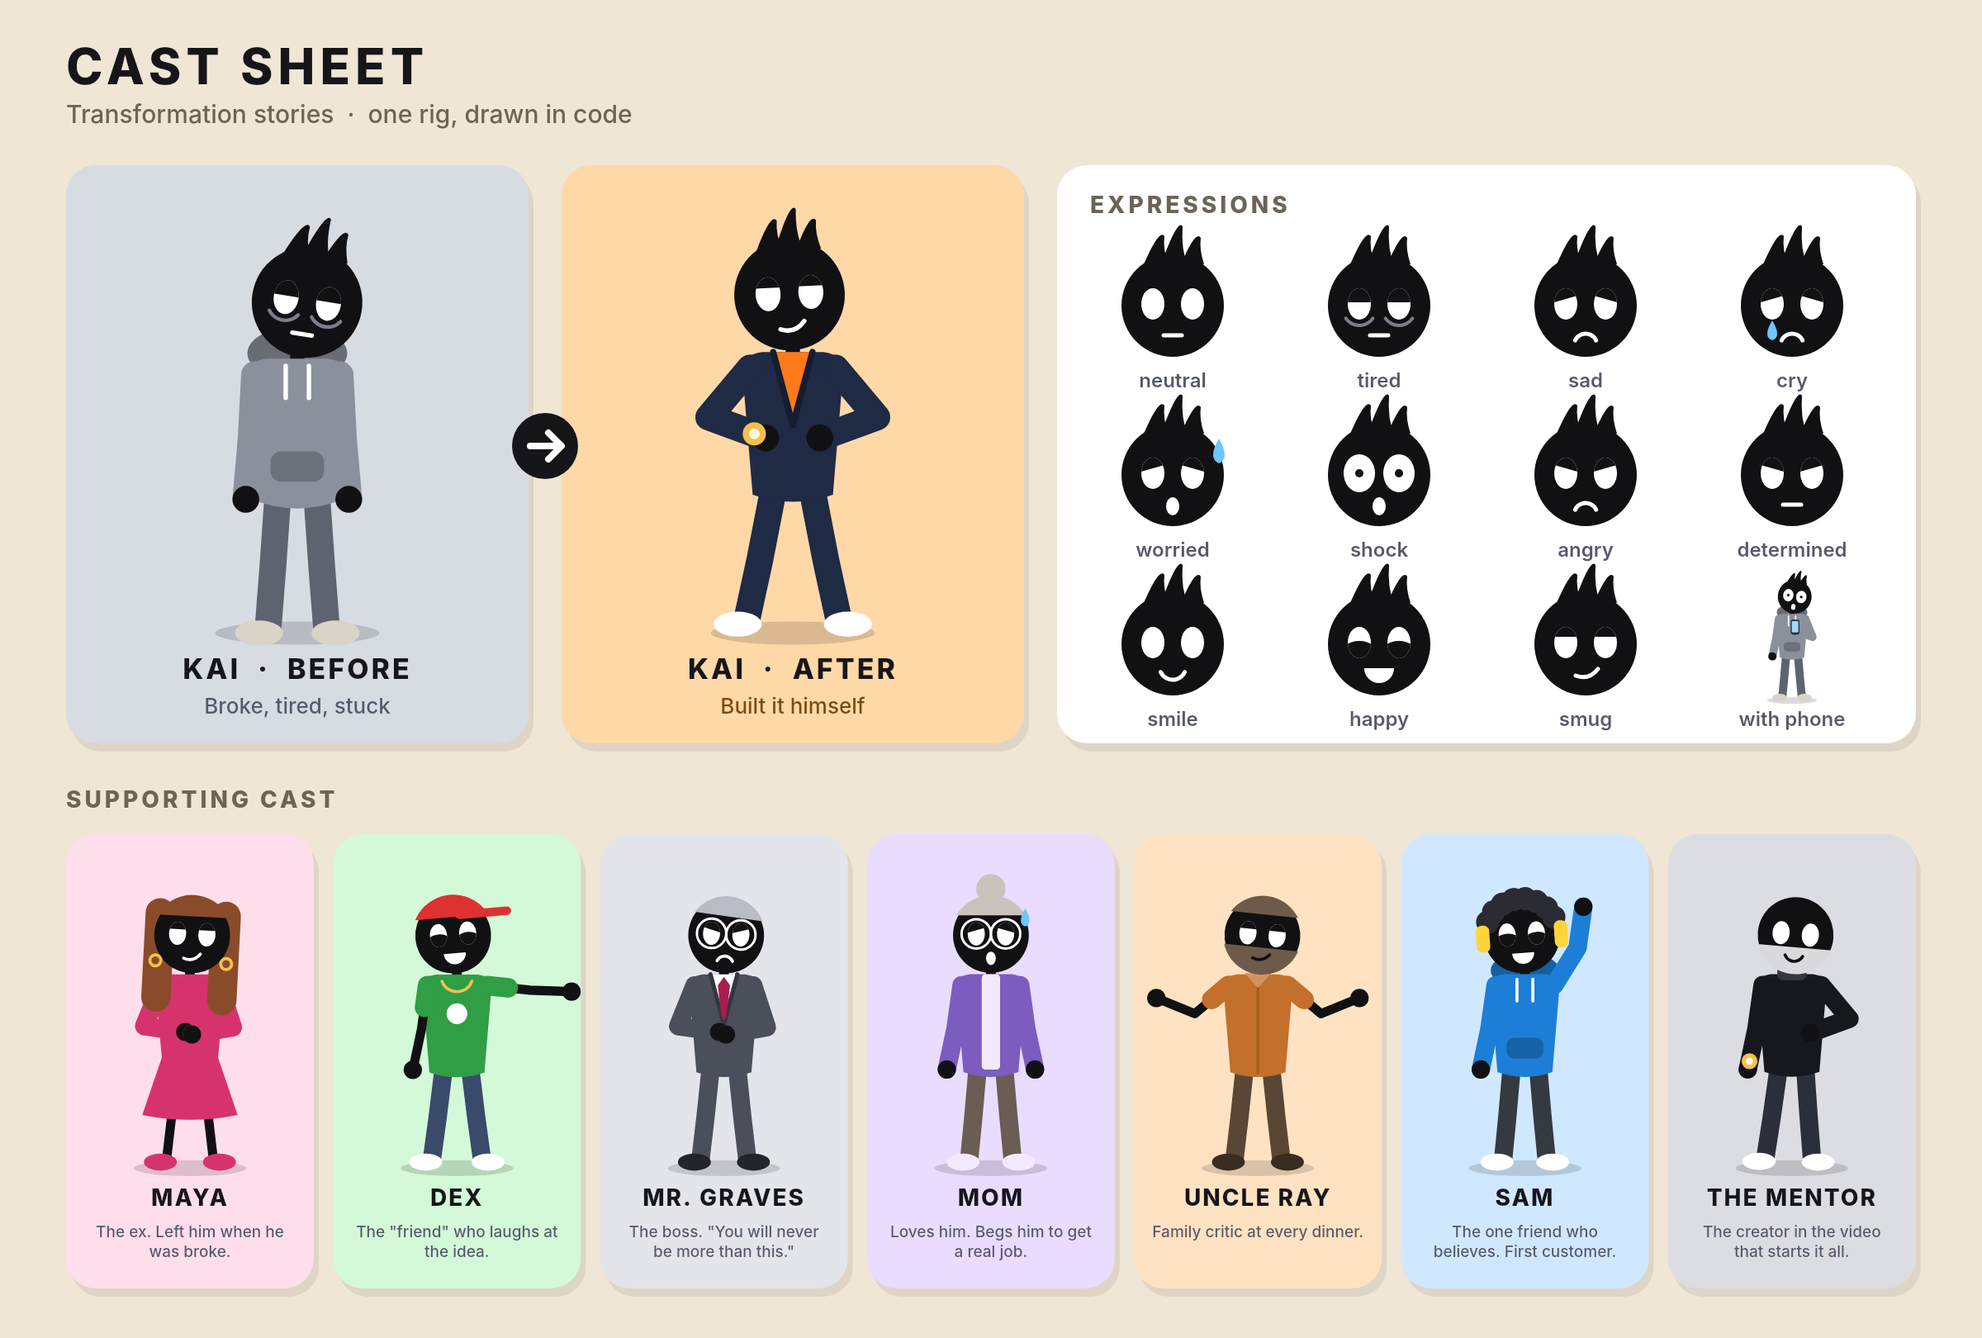
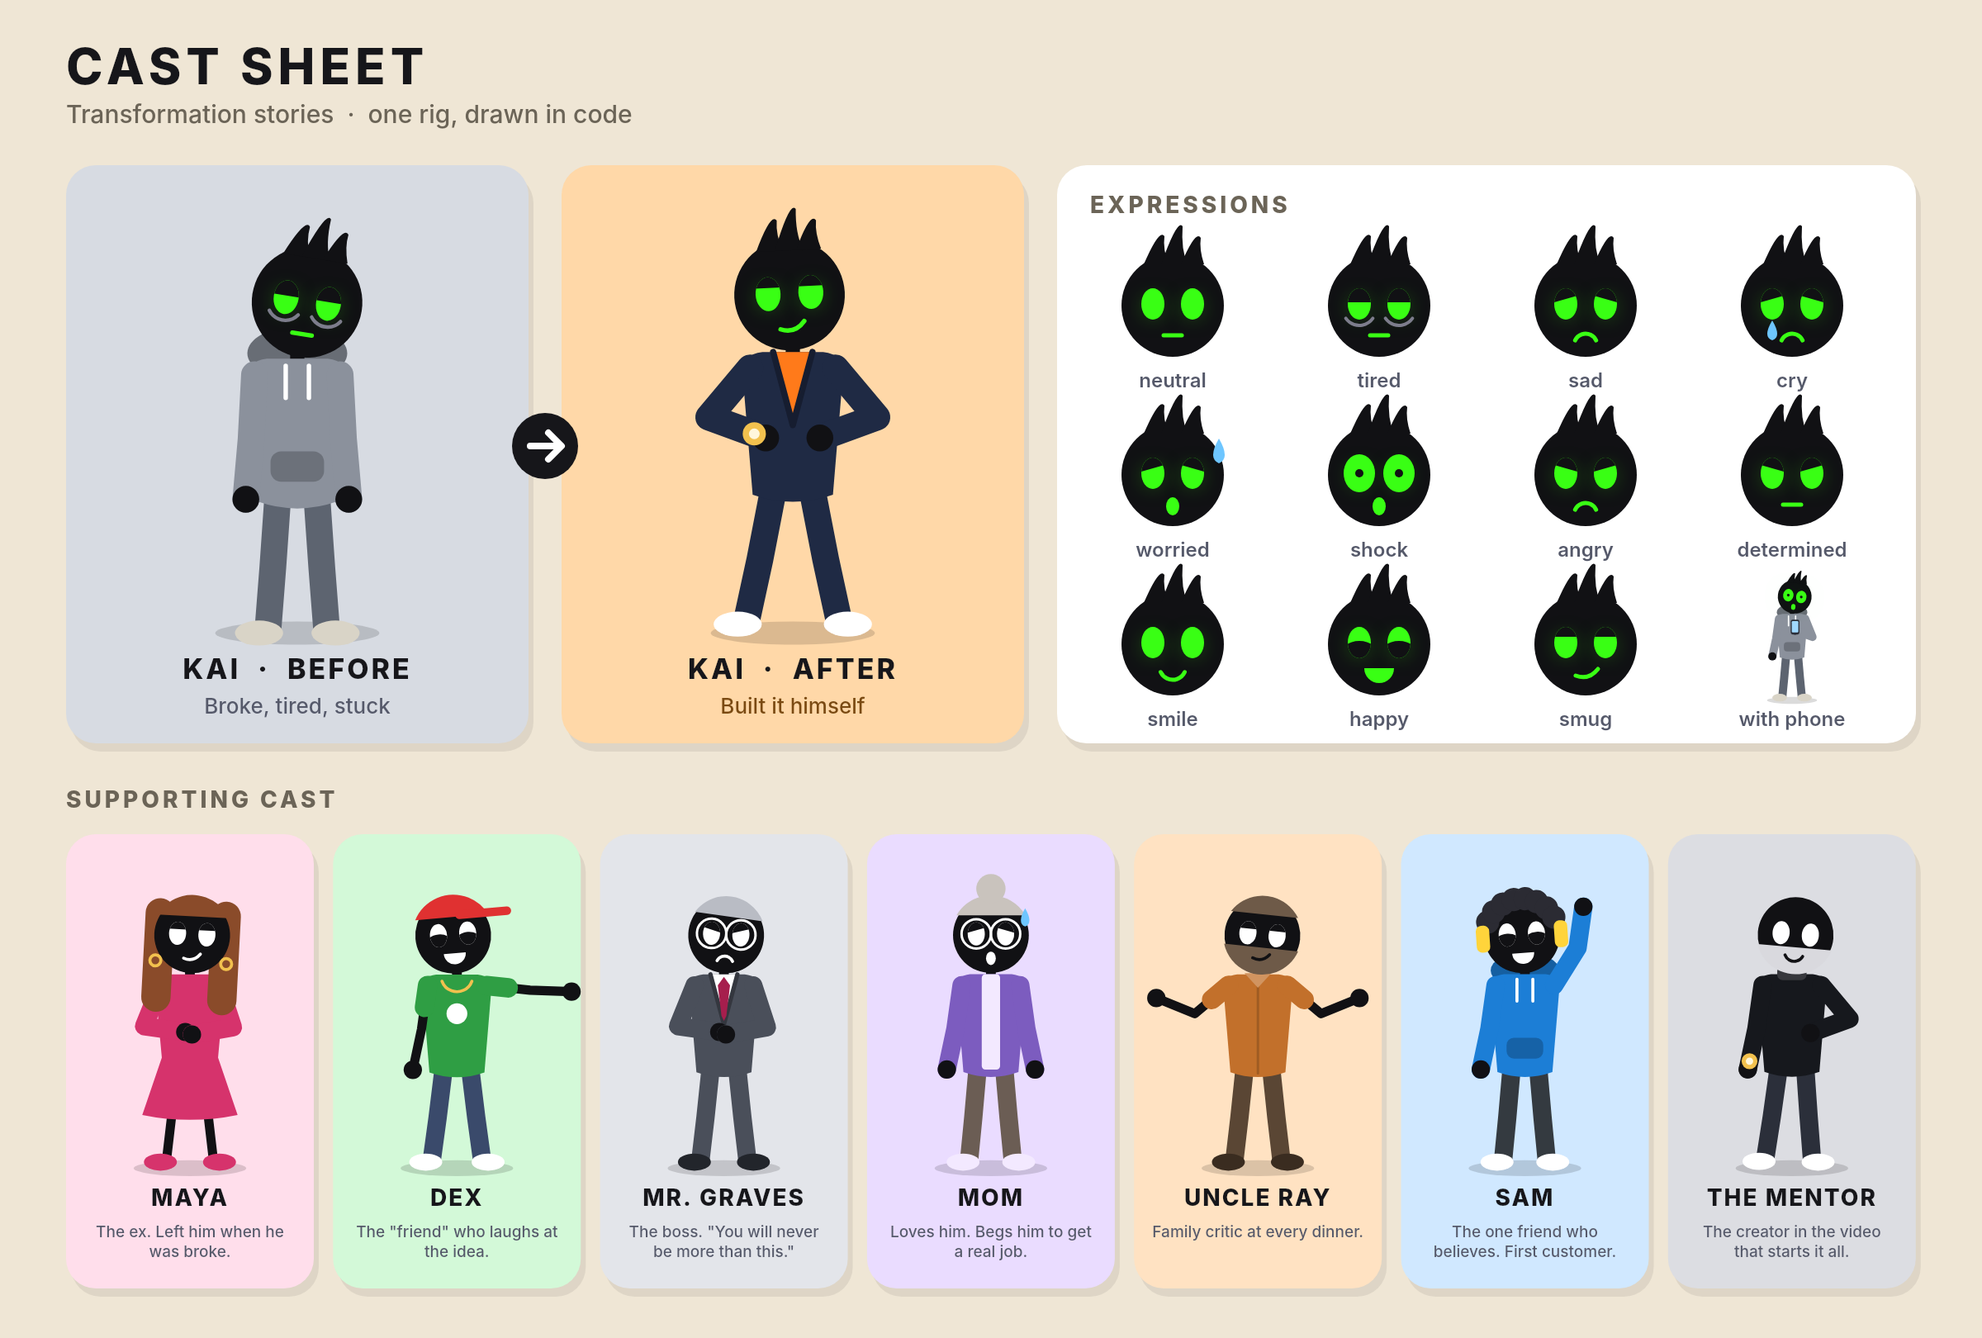
Add episode 01 shot-by-shot script and make the hero's eyes neon green
Claude-Session: https://claude.ai/code/session_01UubEVCKiae4fQMMXe8NSd5

diff --git a/engine/characters.js b/engine/characters.js
@@ -269,11 +269,11 @@ function drawCharacter(ctx, c, opts = {}) {
 const CAST = {
   heroBefore: {
     name: 'KAI', role: 'Before: broke, tired, stuck',
-    hair: { type: 'tuft' }, top: { type: 'hoodie', color: '#8b919c' }, pants: '#5d6470', shoes: '#d9d4c7',
+    hair: { type: 'tuft' }, eye: '#39ff14', eyeGlow: true, top: { type: 'hoodie', color: '#8b919c' }, pants: '#5d6470', shoes: '#d9d4c7',
   },
   heroAfter: {
     name: 'KAI', role: 'After: built it himself',
-    hair: { type: 'tuft' }, top: { type: 'blazer', color: '#1f2a44', shirt: '#ff7a1a' }, pants: '#1f2a44', shoes: '#ffffff',
+    hair: { type: 'tuft' }, eye: '#39ff14', eyeGlow: true, top: { type: 'blazer', color: '#1f2a44', shirt: '#ff7a1a' }, pants: '#1f2a44', shoes: '#ffffff',
     acc: ['watch'],
   },
   ex: {

diff --git a/episodes/01-nine-dollars/script.md b/episodes/01-nine-dollars/script.md
@@ -1,0 +1,165 @@
+# Episode 01 — They Laughed at Your $9 Idea
+
+- **Length:** about 9.5 minutes. 96 shots, average 6 seconds each, none longer than 9.
+- **Narration:** one deep, calm male voice speaking to "you". Character lines appear as speech bubbles and are read by the narrator.
+- **Hero:** Kai (black head, neon green eyes, spiky hair). Grey hoodie until chapter 9, navy suit after.
+- **Recurring devices:** a bank-balance counter in the top corner, a sales counter from chapter 7, and day labels ("DAY 12").
+- **Music:** four moods. Low and tense (ch. 1–4), curious pulse (ch. 5–6), driving build (ch. 7–8), warm and big (ch. 9–11).
+
+Columns: shot number and seconds · what the narrator says · what we see and how it moves · sound.
+
+---
+
+## 1. Hook (0:00 – 0:22)
+
+| # | Narration | On screen | Sound |
+|---|---|---|---|
+| 1 · 4s | They laughed when you said you would sell a spreadsheet. | Black screen. Three laughing mouths pop in one by one. | Laugh, laugh, laugh |
+| 2 · 4s | Your boss. Your ex. Your uncle. | Quick three-way cut: Mr. Graves, Maya, Uncle Ray, each pointing at camera. | Three hard whooshes |
+| 3 · 5s | Eighteen months from now, every one of them will ask you for something. | Same three, now small, looking up at a huge silhouette of Kai in a suit. Green eyes snap open. | Bass hit |
+| 4 · 4s | But tonight, you have forty-three dollars. | Hard cut to Kai's tired face lit by a phone. Counter appears: BALANCE $43.18. | Phone buzz |
+| 5 · 5s | And in nine hours, you are about to lose your job. | Clock spins from 11pm to 8am. Title slams in: THE $9 IDEA. | Clock ticks, slam |
+
+## 2. Rock bottom (0:22 – 1:25)
+
+| # | Narration | On screen | Sound |
+|---|---|---|---|
+| 6 · 5s | You are twenty-six. You deliver parcels for a company that does not know your name. | Kai carries a tower of boxes past a wall of identical lockers. Badge reads "DRIVER 4471". | Warehouse hum |
+| 7 · 4s | Ten hours a day. Six days a week. | Calendar pages flip fast, each stamped with a van icon. | Paper flicks |
+| 8 · 5s | Your van is older than your career. | Side view: rusty van rattles along, exhaust puffing, a hubcap rolls off. | Engine cough, clank |
+| 9 · 5s | Every month ends the same way. | Balance counter drains like a fuel gauge to $43.18. | Draining glug |
+| 10 · 6s | You live in a room where you can touch both walls at once. | Tiny room. Kai stretches his arms and touches both walls. A drip falls into a pot. | Drip |
+| 11 · 5s | Maya left four months ago. | Photo frame on the shelf: Kai and Maya. The Maya half fades to an empty outline. | Soft piano note |
+| 12 · 6s | She did not shout. She just said she was tired of waiting for your life to start. | Flashback, warm colours drained. Maya at the door with a bag, arms crossed. Door closes. | Door click |
+| 13 · 5s | At Sunday dinner, Uncle Ray asks the same question. | Family table. Uncle Ray leans in with a fork. Bubble: "Still driving the van?" | Cutlery clink |
+| 14 · 4s | Everybody laughs. You laugh too. | Table laughs. Zoom on Kai laughing, eyes not laughing. | Laughter, fading |
+| 15 · 5s | Mom squeezes your hand under the table. That somehow makes it worse. | Close-up: Mom's hand on Kai's. Her worried face. | Music dips |
+| 16 · 6s | At work, Mr. Graves times your bathroom breaks. | Mr. Graves with a stopwatch outside a door. Bubble: "Four minutes, 4471." | Stopwatch beep |
+| 17 · 7s | You tell yourself it is temporary. You have been telling yourself that for five years. | Kai in the mirror. Behind him, five ghost versions of himself in the same hoodie. | Low drone |
+
+## 3. The video (1:25 – 2:15)
+
+| # | Narration | On screen | Sound |
+|---|---|---|---|
+| 18 · 4s | That night, you cannot sleep. | Dark room. Only two green eyes open in the black. | Silence, clock tick |
+| 19 · 4s | So you do what you always do. You scroll. | Phone glow. Thumb flicks. Cat video, car crash, dancing chef fly past. | Swipe, swipe, swipe |
+| 20 · 5s | And then a stranger says something that stops your thumb. | The Mentor appears on the phone screen, calm, black turtleneck. Thumb freezes mid-air. | Music cuts out |
+| 21 · 6s | "You do not need a factory. You need one file that solves one problem, sold a thousand times." | Mentor full screen. A single file icon multiplies into a grid of a thousand. | Soft chime per row |
+| 22 · 5s | He calls them digital products. Templates. Guides. Tools. | Three icons pop up with labels: TEMPLATE, GUIDE, TOOL. | Pop, pop, pop |
+| 23 · 5s | You make it once. It sells while you sleep. | Split screen: Kai asleep on the left, a "SALE" notification landing on the right. | Cash ping |
+| 24 · 5s | For the first time in months, something in your chest moves. | Close on Kai. Green eyes widen, glow brightens. | Rising tone |
+| 25 · 5s | You watch nine more videos. It is four in the morning. | Clock jumps 1am, 2am, 4am. Video thumbnails stack up beside him. | Fast ticks |
+| 26 · 5s | Then you remember who you are. | Glow fades. Kai's shoulders drop. He puts the phone face down. | Low thud |
+
+## 4. "It will never work" (2:15 – 3:05)
+
+| # | Narration | On screen | Sound |
+|---|---|---|---|
+| 27 · 5s | You are a van driver. What could you possibly sell? | Kai small in frame. A giant question mark looms over him. | Hollow boom |
+| 28 · 5s | You mention it to Dex at lunch. | Break room. Kai shows his phone to Dex, who is mid-sandwich. | Canteen murmur |
+| 29 · 5s | Dex laughs so hard he drops his sandwich. | Dex doubles over, pointing. Sandwich hits the floor in slow motion. | Laugh, splat |
+| 30 · 5s | "Bro. You? Selling files? To who?" | Dex's bubble fills the frame. The words bounce. | Record scratch |
+| 31 · 5s | You tell Mom. She goes quiet. | Kitchen. Mom holding a tea towel, worried eyes behind her glasses. | Kettle hiss |
+| 32 · 6s | "Honey, those things are scams. Please just keep the job." | Mom's bubble. Behind her a TV shows a headline: ONLINE SCAM WARNING. | TV jingle |
+| 33 · 5s | Uncle Ray does not even look up from his plate. | Uncle Ray chewing. Bubble: "Real men have real jobs." | Fork scrape |
+| 34 · 6s | And the worst voice is not theirs. It is the one in your own head. | Kai's head in profile. Inside it, a tiny Kai shakes his head at him. | Echoing whisper |
+| 35 · 4s | It will never work. Not for someone like you. | Text types across the screen, one word at a time. | Keyboard clacks |
+| 36 · 4s | So you delete the videos. And you go to work. | Thumb taps "Remove from saved". Screen goes dark. | Trash crumple |
+
+## 5. The big problem (3:05 – 3:55)
+
+| # | Narration | On screen | Sound |
+|---|---|---|---|
+| 37 · 4s | That is when the real problem arrives. | Calm depot. A red envelope slides into frame. | Music stops |
+| 38 · 6s | Monday morning. Mr. Graves calls everyone to the loading bay. | Forty drivers in a line. Mr. Graves on a crate with a clipboard. | PA crackle |
+| 39 · 5s | The company bought a routing system. It needs half the drivers. | A screen behind him shows vans being crossed out one by one. | Buzzer per van |
+| 40 · 4s | He reads the numbers out loud. | Close on his mouth. Numbers float out: 4466, 4469… | Paper rustle |
+| 41 · 3s | 4471. | Kai's badge fills the frame. A red stamp hits it. | Stamp slam |
+| 42 · 6s | "Nothing personal. You were never going to be more than this anyway." | Mr. Graves looking down at Kai. Smirk. | Sting |
+| 43 · 5s | You carry your things out in a box you used to deliver. | Kai walks out with a cardboard box. Long shadow. | Footsteps, wind |
+| 44 · 5s | At home, there is a notice on your door. | Door. Paper taped to it: RENT DUE · 30 DAYS. | Paper flap |
+| 45 · 6s | Forty-three dollars. No job. Thirty days. | Three counters stack up: BALANCE $43, JOB: NONE, DAYS: 30. The last one starts ticking down. | Tick, tick, tick |
+| 46 · 6s | You sit on the floor. And you realise something strange. You have nothing left to lose. | Kai on the floor against the door. Slowly, the green eyes lift. | Single piano note, then pulse begins |
+
+## 6. Research (3:55 – 4:55)
+
+| # | Narration | On screen | Sound |
+|---|---|---|---|
+| 47 · 4s | You find the videos again. | Thumb taps "Restore". Thumbnails fly back onto the screen. | Reverse whoosh |
+| 48 · 5s | This time you do not watch them. You study them. | Kai at a wobbly desk with a notebook. Pen moving fast. | Pen scratching |
+| 49 · 5s | The library has free internet and a heater. You move in. | Library exterior, then Kai at a table surrounded by book towers. | Page turns |
+| 50 · 5s | You learn the first rule. Do not sell what you like. Sell what hurts. | Notebook page: "RULE 1: SELL WHAT HURTS". Underlined twice. | Marker squeak |
+| 51 · 6s | So you ask a different question. What hurts the people you know best? | Kai's thought bubble fills with delivery vans. | Engines idling |
+| 52 · 6s | Drivers. Forty of them just lost their jobs. Thousands more work for themselves. | Map of the city. Van dots light up everywhere. Counter: 60,000 DRIVERS. | Dots pinging |
+| 53 · 6s | And every single one of them hates the same thing. Tracking miles, fuel and tax. | Three ugly icons: a shoebox of receipts, a fuel pump, a tax form with teeth. | Growl |
+| 54 · 5s | You know that pain. You kept your own numbers in a notebook for five years. | Kai pulls out a battered notebook full of columns. | Dusty thump |
+| 55 · 6s | What if that notebook was a spreadsheet anybody could use? | The notebook page lifts off and transforms into a clean spreadsheet. | Shimmer |
+| 56 · 6s | You give it a name. The Driver's Ledger. Nine dollars. | Product card slides in: THE DRIVER'S LEDGER · $9. | Cash register ding |
+| 57 · 6s | For the first time, the idea is not a dream. It is a file on your screen. | Kai looks at the laptop. Screen light on his face. Small smile. | Pulse lifts |
+
+## 7. Trying (4:55 – 5:55)
+
+| # | Narration | On screen | Sound |
+|---|---|---|---|
+| 58 · 5s | You build it in six nights. | Time-lapse: window goes dark, light, dark. Kai never moves from the desk. DAY 6. | Fast typing |
+| 59 · 4s | You do not know how to make a sales page. You make one anyway. | A clumsy web page assembles itself. One image is upside down. | Clunk |
+| 60 · 4s | You press publish. | Finger over a big green button. Push. | Deep click |
+| 61 · 5s | And then you wait for the money. | Kai staring at a sales counter: SALES 0. He blinks. | Cricket |
+| 62 · 5s | Day one. Nothing. Day five. Nothing. | Day labels flip. Counter stays at 0. Kai's posture sinks each flip. | Dull thud each day |
+| 63 · 5s | Day twelve. One visitor. It is your mom. | Analytics screen: 1 VISITOR. A tiny Mom icon waves. | Sad trombone, short |
+| 64 · 6s | Dex sends you a message. A screenshot of your page, and a laughing face. | Phone: message from DEX with three crying-laughing faces. | Message pop |
+| 65 · 5s | The rent counter says eighteen days. | DAYS: 18, glowing red. BALANCE $11. | Alarm pulse |
+| 66 · 6s | Everything in you says stop. This is the moment most people do. | Kai's hand hovers over "Delete product". | Heartbeat |
+| 67 · 6s | Instead you ask the question that changes everything. Why is nobody buying? | Hand pulls back. The word WHY? writes itself across the screen. | Music turns |
+
+## 8. Trying harder (5:55 – 7:55)
+
+| # | Narration | On screen | Sound |
+|---|---|---|---|
+| 68 · 5s | You stop guessing. You go and ask. | Kai walks out of the door with the laptop under his arm. | Door, street noise |
+| 69 · 6s | You stand in the cold outside the depot and talk to every driver who will listen. | Depot gate at dawn. Kai talking to driver after driver. Breath clouds. | Wind, engines |
+| 70 · 6s | They tell you the truth. It is too complicated. They want it on a phone. In two taps. | Three driver bubbles: "Too many tabs." "I'm on my phone." "Two taps, max." | Pop, pop, pop |
+| 71 · 5s | So you tear it down and build it again. | The spreadsheet shatters into blocks and reassembles as a simple phone screen. | Glass, then snap |
+| 72 · 5s | Sam is the only one who offers to help. | Sam appears with headphones and two coffees. Hands one over. | Cup tap |
+| 73 · 5s | He tests it on his own route and breaks it eleven times. | Sam in a van tapping the phone. Red error crosses stack up: ×11. | Error bleeps |
+| 74 · 5s | You fix it eleven times. | Each red cross flips to a green tick. | Tick chimes rising |
+| 75 · 6s | You post a thirty-second video showing how it works. Forty views. | Phone filming a phone. View counter: 40. | Flat blip |
+| 76 · 5s | You post another. And another. Every single day. | Grid of video thumbnails fills in, one per day. DAY 31… DAY 44. | Rapid shutter clicks |
+| 77 · 6s | Day forty-six. You sell your last thing worth selling to cover the rent. | Kai hands his old guitar over a pawn counter. Rent counter resets to 30. | Coins on glass |
+| 78 · 5s | Day forty-seven. You wake up to a sound you have never heard before. | Dark room. The phone lights up on the floor. | Cash ping, clear and loud |
+| 79 · 5s | Two fourteen in the morning. Somebody you have never met paid you nine dollars. | Phone: SALE · $9.00 · 2:14 AM. Green eyes huge. | Music swells |
+| 80 · 6s | Nine dollars. It is nothing. And it is the first money you ever made while you slept. | Kai on the edge of the bed holding the phone like something fragile. | Held chord |
+| 81 · 5s | By the end of the week there are six more. | Sales counter: 1 … 7. Small pings. | Ping ×6 |
+| 82 · 6s | A driver with fifty thousand followers shares your video. He writes four words. "This saved my month." | Big creator's post with the quote. Like counter spinning. | Whoosh, crowd rise |
+| 83 · 6s | The counter does not climb. It jumps. | Sales counter: 7 → 60 → 412. Screen shakes. | Slot-machine roll |
+| 84 · 6s | Then you make your first real mistake. A bug wipes the data for two hundred customers. | Screens turn red one after another. Angry emails pile up: 200. | Alarm, email dings |
+| 85 · 6s | You could hide. Instead you email every one of them, refund them, and fix it in a night. | Kai typing. 200 envelopes fly out. Each returns as a green tick. | Typing, sends, chimes |
+| 86 · 6s | Most of them buy again. Some of them tell their friends why. | Review cards land: five stars, "He actually answered." | Soft bell per card |
+| 87 · 6s | You add a second product. Then a third. Each one built from something drivers asked for. | Product cards stack: LEDGER, TAX PACK, ROUTE PLANNER. Monthly counter: $9,400. | Rising steps |
+
+## 9. New life (7:55 – 8:45)
+
+| # | Narration | On screen | Sound |
+|---|---|---|---|
+| 88 · 5s | And one morning, you notice you did not check your balance. | Kai wakes in sunlight. The balance counter in the corner fades away. | Birds, warm music |
+| 89 · 6s | Eighteen months after the loading bay, sixty thousand drivers use something you made. | Map from shot 52. Every van dot now glows green. | Dots chime in a wave |
+| 90 · 6s | The grey hoodie goes in a drawer. | Poof of smoke. Hoodie Kai becomes suit Kai: navy suit, orange shirt, gold watch. | Poof, shimmer |
+| 91 · 5s | You move somewhere with windows. | Bright apartment. Kai stretches his arms and touches nothing. | Open air |
+| 92 · 5s | You hire Sam first. | Office door: SAM · HEAD OF PRODUCT. Sam grins, headphones on. | High five slap |
+| 93 · 6s | And you pay off the house your mom has been renting for thirty years. | Mom holding a key, glasses fogged up, crying happy. Kai hugging her. | Music peak |
+
+## 10. The return (8:45 – 9:30)
+
+| # | Narration | On screen | Sound |
+|---|---|---|---|
+| 94 · 9s | Then they come back. Dex wants a job. Uncle Ray wants a loan, and calls you "sir" at dinner. Maya sends one message. "I always knew." | Three fast cuts, 3 seconds each: Dex with a CV; Uncle Ray handing Kai the best chair; phone with Maya's text. | Three soft whooshes |
+| 95 · 9s | And Mr. Graves. His depot was closed by the same system that replaced you. He applies to your company. He does not recognise the name on the door. | Mr. Graves in a waiting room clutching a folder. Door opens. He looks up. Green eyes. His glasses slide down. | Door creak, sting |
+| 96 · 9s | You could laugh. You do not. You slide a card across the table. On it is a number. 4471. And underneath: "Nothing personal." | Close-up of the card sliding. His face. Then Kai, calm, a small smile. | Card slide, single bass note |
+
+## 11. Close (9:30 – 9:50)
+
+| # | Narration | On screen | Sound |
+|---|---|---|---|
+| 97 · 7s | The best revenge was never the suit. It was the nine dollars. Proof that the voice in your head was wrong. | Split screen: Kai on the floor from shot 46, Kai now. | Music softens |
+| 98 · 7s | So what is the notebook you already have? | The battered notebook on a desk, glowing green. Text: WHAT IS YOUR NOTEBOOK? | Glow hum |
+| 99 · 6s | Subscribe. Next week, someone else starts from zero. | Kai turns to camera and nods. Subscribe button pops. A new silhouette walks in behind him. | Pop, music out |
